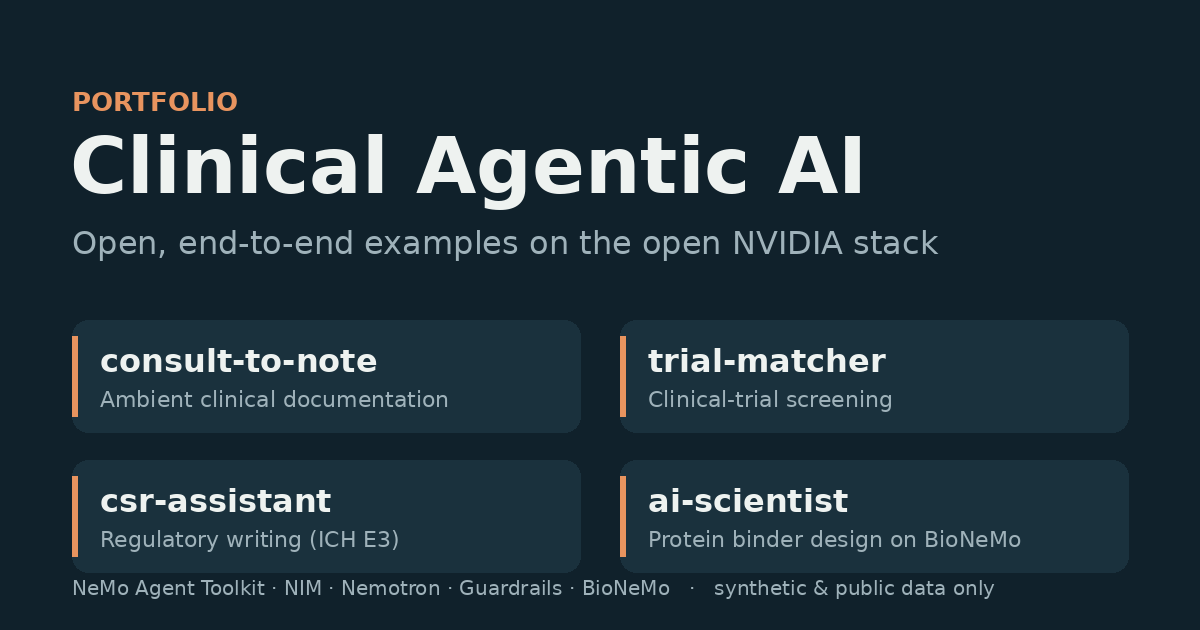
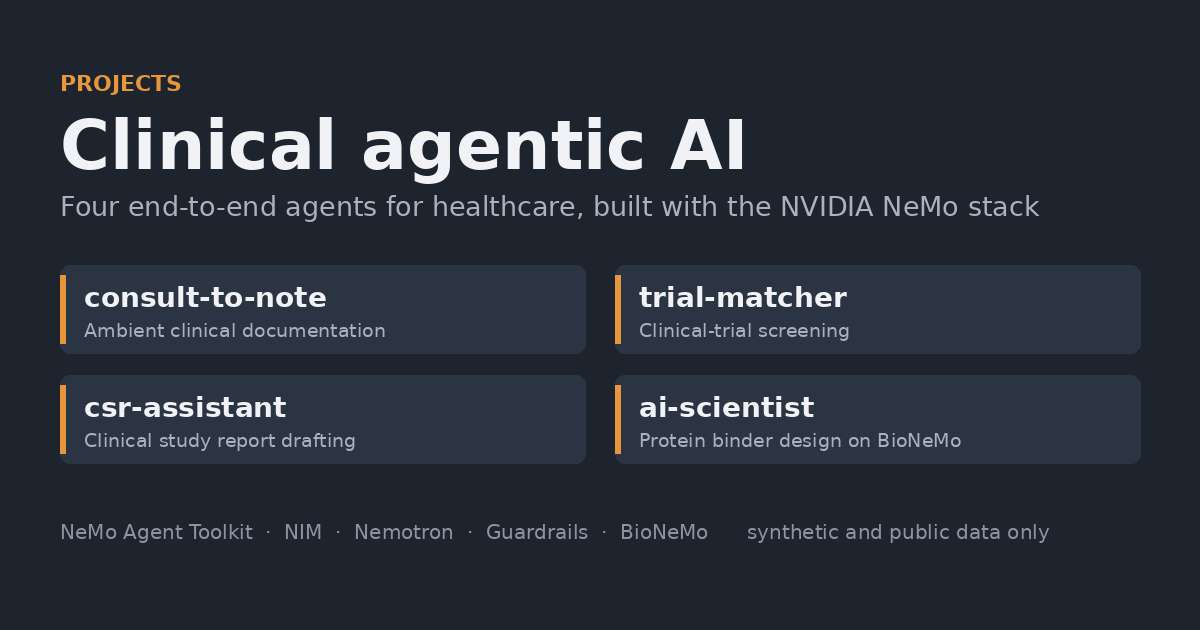
Update index

Changed region(s): [[0.0308, 0.1206, 0.9558, 0.8746], [0.0617, 0.9048, 0.555, 0.9651], [0.5858, 0.9048, 0.8325, 0.9651]]

diff --git a/content/authors/admin/_index.md b/content/authors/admin/_index.md
@@ -1,6 +1,6 @@
 ---
 # Display name
-title: Anh Duong (Maria) Vo
+title: Maria (Anh Duong Vo)
 
 # Name pronunciation (optional)
 name_pronunciation: ''
@@ -95,7 +95,7 @@ work:
     date_end: 2026-02-01
     # remove date_end (ongoing)
     summary: |
-      Applied generative AI, NLP, and computer vision techniques to large-scale biomedical data. Designed LLM-based agent systems and retrieval-augmented generation (RAG) pipelines for clinical and research data, and developed evaluation frameworks combining automated metrics and expert feedback to assess model reliability and performance.
+      Applied generative AI and NLP to large-scale biomedical data. Designed LLM-based agent systems, and developed evaluation frameworks combining automated metrics and expert feedback to assess model reliability and performance.
   - position: AI/ML Researcher in Machine Learning and Computer Science
     company_name: ETH AI Center / Institute of Neuroinformatics
     company_url: 'https://ai.ethz.ch'
@@ -233,7 +233,7 @@ Hi, I'm Maria (Anh Duong Vo), a postdoctoral researcher at the ETH AI Center and
 
 I work on agentic AI: LLM-based agents, retrieval-augmented generation, and the evaluation and guardrails needed to use them in healthcare. My recent projects are end-to-end clinical agents built with the NVIDIA NeMo stack (NeMo Agent Toolkit, NIM, Guardrails, BioNeMo), alongside vendor-neutral tooling for agent evaluation and citation-verified retrieval. The code is on [GitHub](https://github.com/AnhDuongVo).
 
-This year I was a research intern at Johnson & Johnson Innovative Medicine, where I designed LLM agent systems and evaluation frameworks that combine automated metrics with expert feedback to measure reliability and grounding. Across more than 7 years in AI I have shipped scalable models and data pipelines over multimodal data (images, video, audio, text, and neural recordings).
+This year I was a research intern at Johnson & Johnson Innovative Medicine, where I designed LLM agent systems and evaluation frameworks that combine automated metrics with expert feedback to assess model reliability and performance. Across more than 7 years in AI I have shipped scalable models and data pipelines over multimodal data (images, video, audio, text, and neural recordings).
 
 I am looking for industry roles in agentic AI and applied machine learning, including roles that work closely with the developers who use these systems. If you would like to connect, collaborate, or discuss opportunities, feel free to reach out by email or on LinkedIn.
 

diff --git a/content/projects/clinical-agentic-ai/index.md b/content/projects/clinical-agentic-ai/index.md
@@ -1,5 +1,5 @@
 ---
-title: Clinical Agentic AI (open examples)
+title: Clinical agentic AI (four end-to-end agents)
 summary: "Four end-to-end examples of agentic AI for healthcare and the life sciences, built with the NVIDIA NeMo stack."
 date: 2026-09-01
 weight: 10
